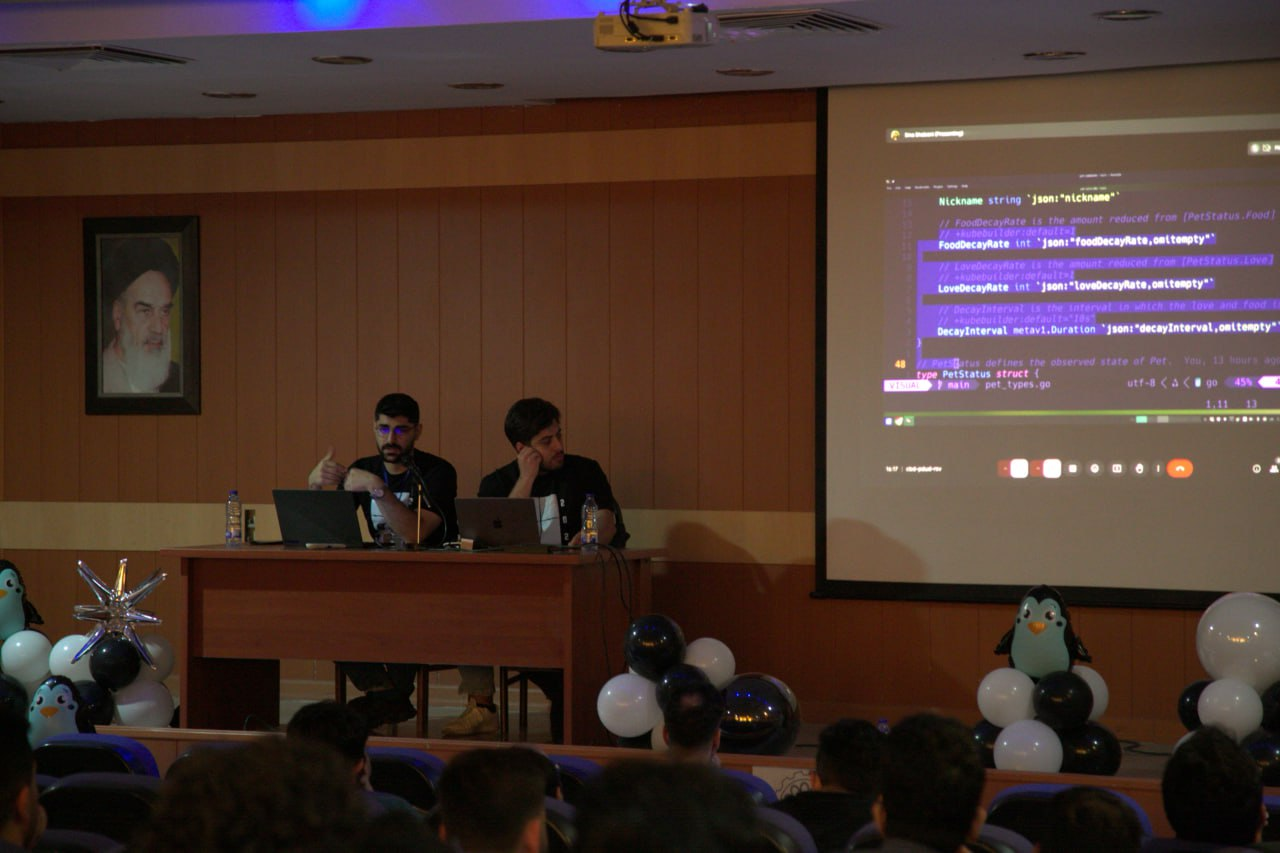
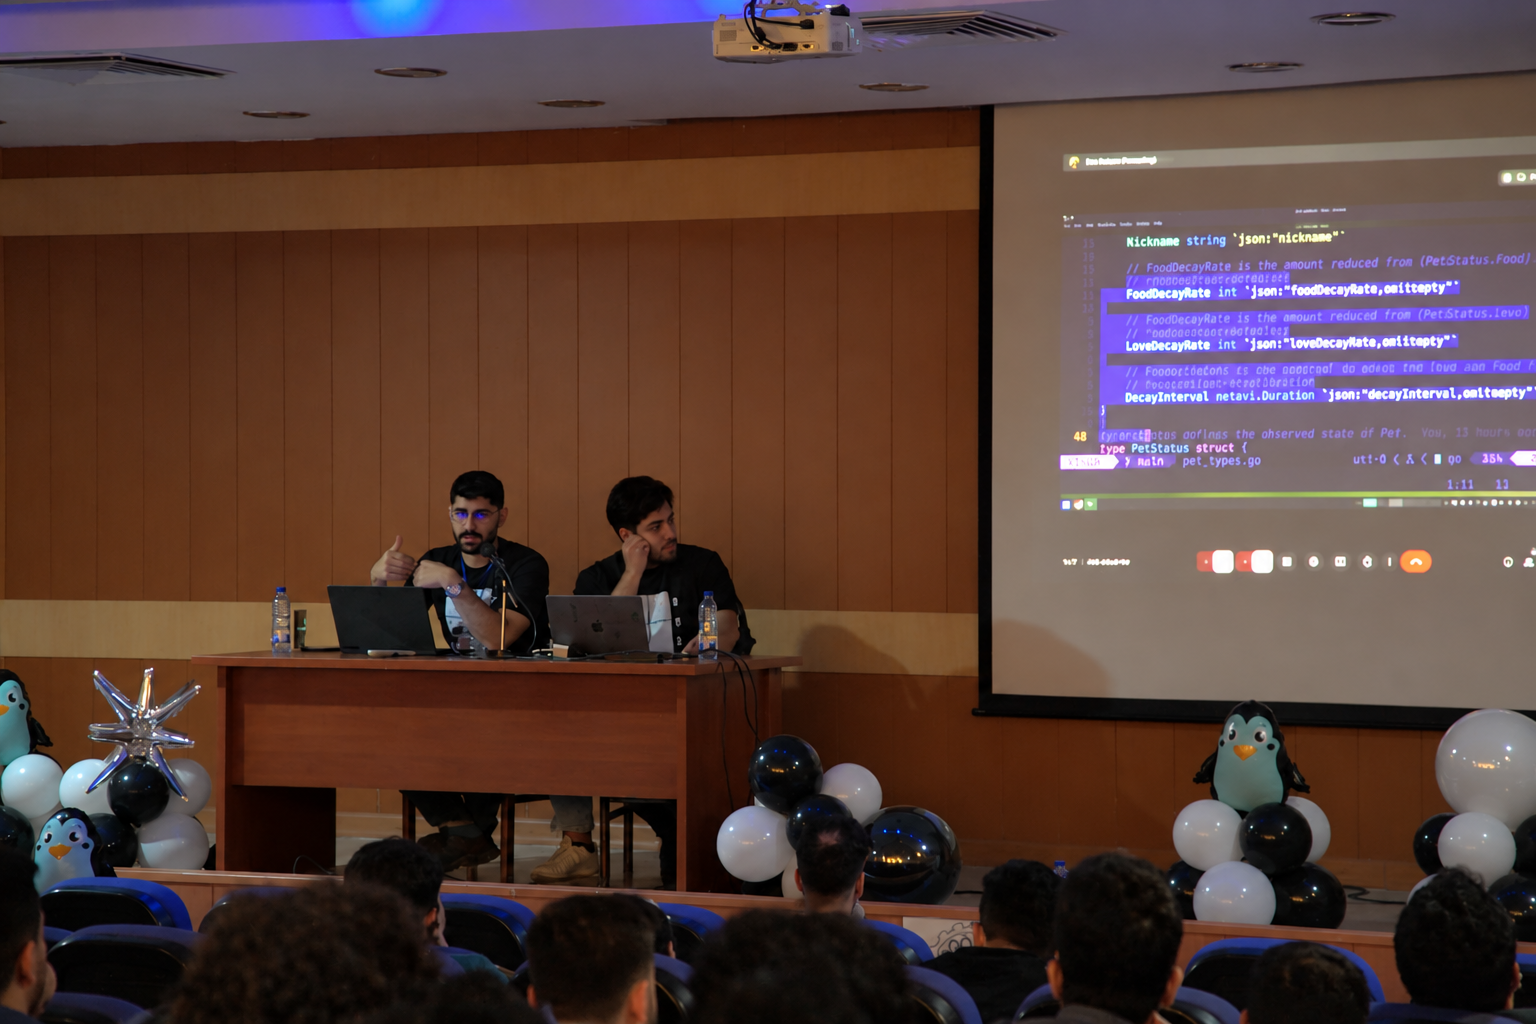
fix some ui bugs

diff --git a/src/components/Home/components/ExperienceSection.tsx b/src/components/Home/components/ExperienceSection.tsx
@@ -11,7 +11,7 @@ const experiences = [
     width: 1280,
     height: 853,
     links: [
-      { label: "قالب رویداد", to: "/event-format" },
+      { label: "مراحل رویداد", to: "/event-format" },
       { label: "زمانبندی رویداد", to: "#programs" },
     ],
   },
@@ -49,7 +49,9 @@ const ExperienceSection = () => (
           className="grid grid-cols-1 items-center gap-8 border-b border-primary/15 py-12 first:pt-0 last:border-b-0 last:pb-0 sm:gap-10 sm:py-16 lg:grid-cols-2 lg:gap-14 lg:py-20 xl:gap-20"
         >
           <div
-            className={`min-w-0 montage-photo ${index % 2 === 1 ? "lg:order-2" : ""}`}
+            className={`min-w-0 montage-photo ${
+              index % 2 === 1 ? "lg:order-2" : ""
+            }`}
           >
             <img
               className="h-auto w-full rounded-xl"
@@ -82,7 +84,11 @@ const ExperienceSection = () => (
             </p>
             <div className="mt-6 flex flex-col gap-3 sm:mt-8 sm:flex-row sm:flex-wrap">
               {experience.links.map((link, linkIndex) => {
-                const className = `inline-flex min-h-12 items-center justify-center gap-3 rounded-2xl border px-5 py-3 text-base font-extrabold transition-colors focus-visible:outline-2 focus-visible:outline-offset-4 focus-visible:outline-primary ${linkIndex === 0 ? "border-transparent bg-secondary text-primary hover:bg-secondary/85 active:bg-secondary/75" : "border-primary text-primary hover:bg-primary hover:text-text-white active:bg-dark-gray active:text-text-white"}`;
+                const className = `inline-flex min-h-12 items-center justify-center gap-3 rounded-2xl border px-5 py-3 text-base font-extrabold transition-colors focus-visible:outline-2 focus-visible:outline-offset-4 focus-visible:outline-primary ${
+                  linkIndex === 0
+                    ? "border-transparent bg-secondary text-primary hover:bg-secondary/85 active:bg-secondary/75"
+                    : "border-primary text-primary hover:bg-primary hover:text-text-white active:bg-dark-gray active:text-text-white"
+                }`;
 
                 return link.to.startsWith("#") ? (
                   <a key={link.to} href={link.to} className={className}>

diff --git a/src/components/Auth/AuthLayout.tsx b/src/components/Auth/AuthLayout.tsx
@@ -36,7 +36,7 @@ const AuthLayout = ({
         className="inline-flex min-h-11 items-center gap-2 rounded-lg px-2 text-xs font-bold text-dark-gray hover:bg-indigo/15 focus-visible:outline-2 focus-visible:outline-primary sm:text-sm"
       >
         بازگشت به خانه
-        <HiArrowRight aria-hidden="true" className="size-4" />
+        <HiArrowLeft aria-hidden="true" className="size-4" />
       </Link>
     </header>
     <main className="mx-auto flex w-full max-w-6xl flex-1 items-center px-4 pb-8 sm:px-8 sm:pb-10">

diff --git a/src/components/Footer/Footer.tsx b/src/components/Footer/Footer.tsx
@@ -111,7 +111,7 @@ const Footer = () => (
             className="mt-2 inline-flex min-h-11 items-center rounded-sm px-1 py-2 text-sm text-text-gray underline-offset-4 transition-colors hover:text-text-white hover:underline focus-visible:outline-2 focus-visible:outline-secondary"
             to="/event-format"
           >
-            قالب رویداد
+            مراحل برگزاری رویداد
           </Link>
         </nav>
       </div>

diff --git a/src/components/Home/Home.tsx b/src/components/Home/Home.tsx
@@ -7,7 +7,7 @@ import SponsorsSection from "./components/SponsorsSection";
 
 const Home = () => (
   <>
-    <main className="overflow-clip bg-text-white text-primary">
+    <main className="overflow-scroll bg-text-white text-primary">
       <HeroSection />
       <ActivityTicker />
       <ExperienceSection />
